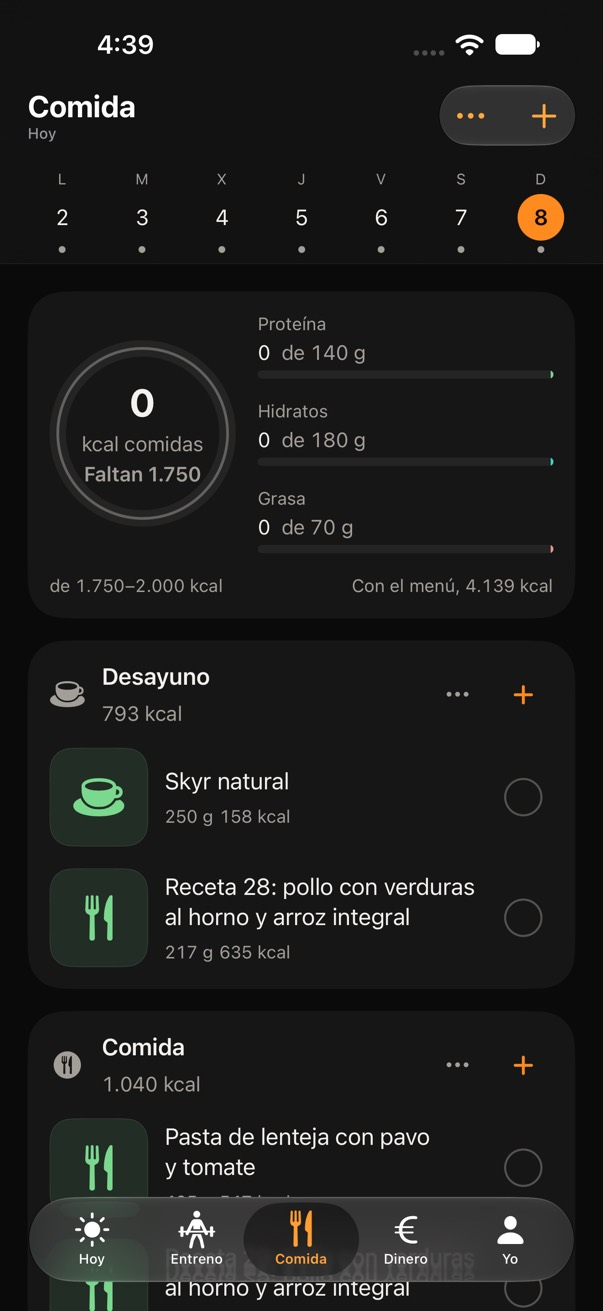
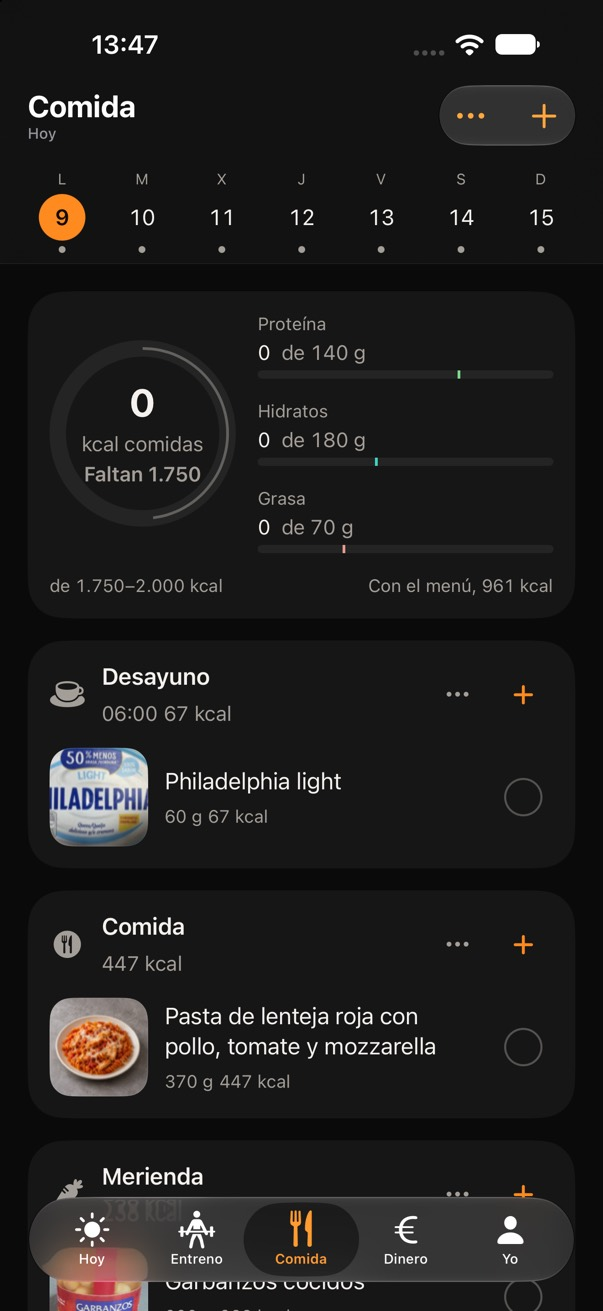
feat: show current fandOS screens on the site with sample data
Today shows «Desarrollar fandOS» as the current activity, Training the
new orange illustrations and Food dishes with their photos.

diff --git a/index.html b/index.html
@@ -173,9 +173,9 @@
           </ul>
         </div>
         <div class="wrap phones">
-          <figure class="phone"><img src="assets/img/fandos-today.jpg" width="603" height="1311" alt="Pantalla Hoy de fandOS con la actividad en curso, el tiempo que queda y las próximas actividades." loading="lazy"></figure>
-          <figure class="phone"><img src="assets/img/fandos-training.jpg" width="603" height="1311" alt="Pantalla Entreno de fandOS con la sesión Fuerza A, sus ejercicios y el botón Empezar." loading="lazy"></figure>
-          <figure class="phone"><img src="assets/img/fandos-food.jpg" width="603" height="1311" alt="Pantalla Comida de fandOS con el anillo de calorías, los macros y los platos del día." loading="lazy"></figure>
+          <figure class="phone"><img src="assets/img/fandos-today.jpg" width="603" height="1311" alt="Pantalla Hoy de fandOS con la actividad en curso, Desarrollar fandOS, el tiempo que queda y las próximas actividades." loading="lazy"></figure>
+          <figure class="phone"><img src="assets/img/fandos-training.jpg" width="603" height="1311" alt="Pantalla Entreno de fandOS con la sesión Fuerza A, sus ejercicios ilustrados y el botón Empezar." loading="lazy"></figure>
+          <figure class="phone"><img src="assets/img/fandos-food.jpg" width="603" height="1311" alt="Pantalla Comida de fandOS con el anillo de calorías, los macros y los platos del día con su foto." loading="lazy"></figure>
           <figure class="phone"><img src="assets/img/fandos-progress.jpg" width="603" height="1311" alt="Pantalla Yo de fandOS con los anillos de la semana y los paneles de progreso." loading="lazy"></figure>
         </div>
       </section>

diff --git a/en/index.html b/en/index.html
@@ -173,9 +173,9 @@
           </ul>
         </div>
         <div class="wrap phones">
-          <figure class="phone"><img src="../assets/img/fandos-today.jpg" width="603" height="1311" alt="The fandOS Today screen with the current activity, the time left and the activities that follow." loading="lazy"></figure>
-          <figure class="phone"><img src="../assets/img/fandos-training.jpg" width="603" height="1311" alt="fandOS Training screen with the Fuerza A session, its exercises and the Start button." loading="lazy"></figure>
-          <figure class="phone"><img src="../assets/img/fandos-food.jpg" width="603" height="1311" alt="fandOS Food screen with the calorie ring, macros and the day's dishes." loading="lazy"></figure>
+          <figure class="phone"><img src="../assets/img/fandos-today.jpg" width="603" height="1311" alt="The fandOS Today screen with the current activity, Desarrollar fandOS, the time left and the activities that follow." loading="lazy"></figure>
+          <figure class="phone"><img src="../assets/img/fandos-training.jpg" width="603" height="1311" alt="fandOS Training screen with the Fuerza A session, its illustrated exercises and the Start button." loading="lazy"></figure>
+          <figure class="phone"><img src="../assets/img/fandos-food.jpg" width="603" height="1311" alt="fandOS Food screen with the calorie ring, macros and the day's dishes with their photos." loading="lazy"></figure>
           <figure class="phone"><img src="../assets/img/fandos-progress.jpg" width="603" height="1311" alt="fandOS Me screen with the week's rings and the progress panels." loading="lazy"></figure>
         </div>
       </section>
